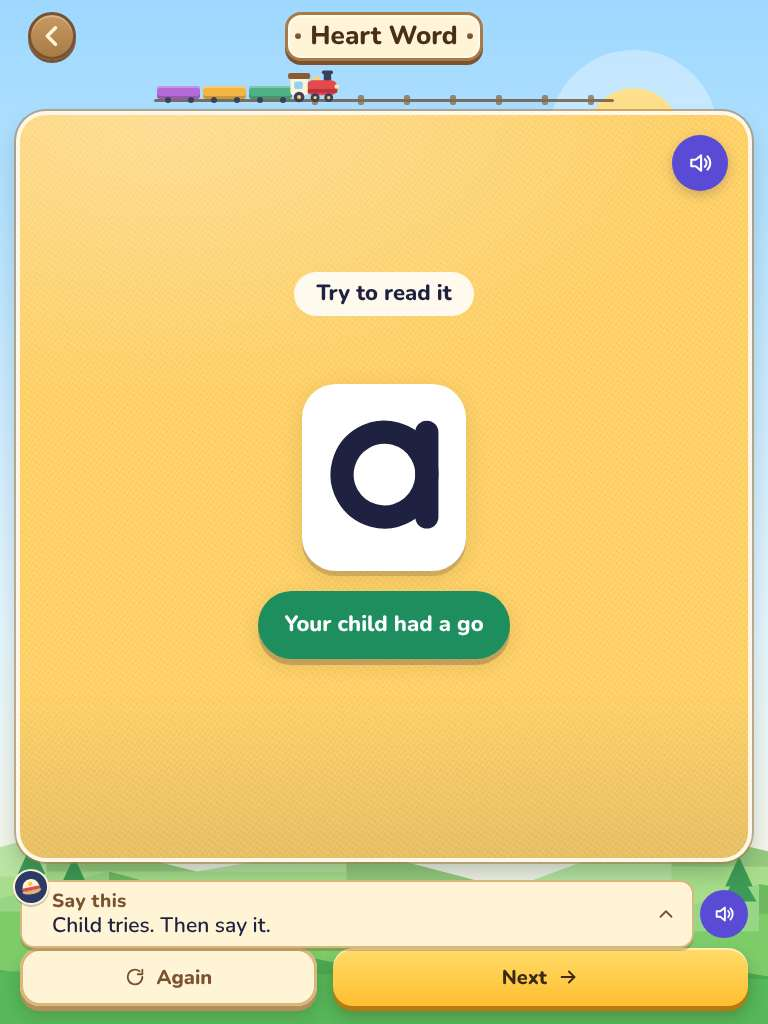
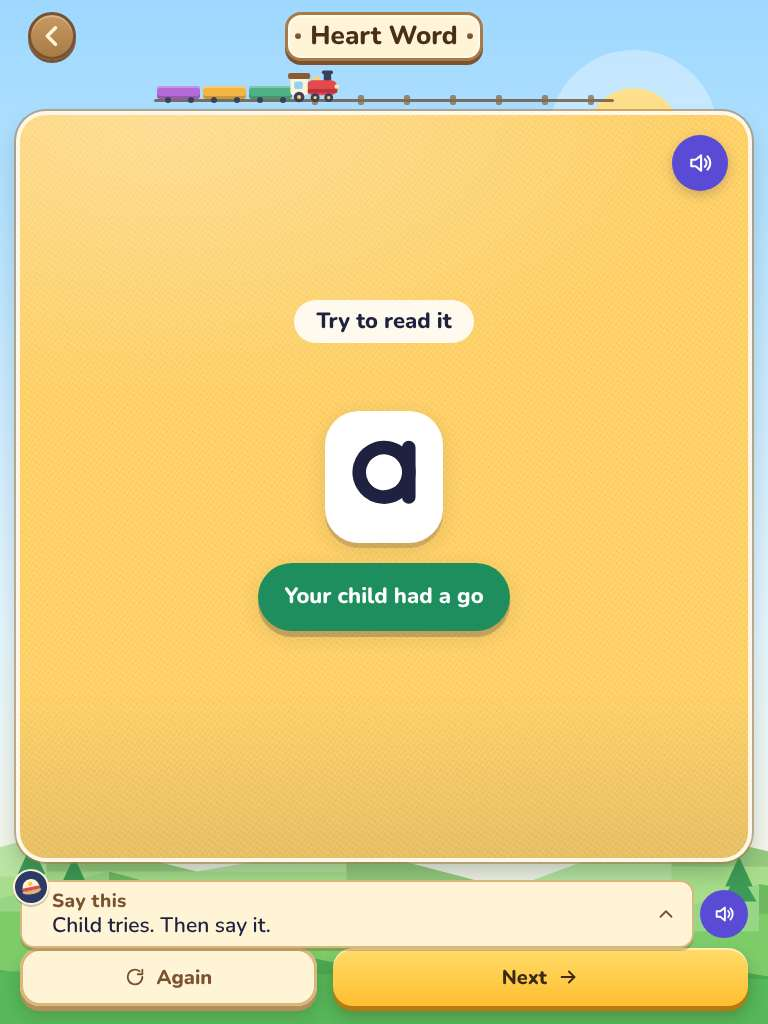
Tablet layouts: test/tablet.mjs, screenshots, fixes

Changed region(s): [[0.3125, 0.375, 0.6875, 0.6562], [0.375, 0.25, 0.625, 0.3438]]

diff --git a/css/app.css b/css/app.css
@@ -2658,7 +2658,7 @@ button.scene-tunnel.tappable:focus-visible { outline: 4px solid var(--violet); o
   .new-letter .blend-card .sc-rules { margin: 0; }
 }
 @media (min-width: 700px) and (min-height: 700px) {
-  .letter-card.pair .glyph { height: calc(100% - 20px); width: auto; max-width: 46%; }
+  .letter-card.pair .glyph { height: auto; width: 44%; max-width: 44%; }
   .new-letter:has(.blend-card) .letter-card.big { height: clamp(110px, 15dvh, 190px); }
 }
 @media (min-width: 700px) and (min-height: 700px) and (max-height: 1150px) {
@@ -2710,4 +2710,21 @@ button.scene-tunnel.tappable:focus-visible { outline: 4px solid var(--violet); o
 }
 @media (min-width: 700px) and (min-height: 700px) and (orientation: landscape) {
   .px-model { min-height: 44px; } .hw-col { gap: 8px; } .hw-word { padding-top: 30px; }
+}
+@media (min-width: 700px) and (min-height: 700px) and (orientation: landscape) {
+  .pic-frame.huge, .sounds-stage.revealed .pic-frame.huge { width: clamp(100px, 19dvh, 220px); height: clamp(100px, 19dvh, 220px); }
+  .sounds-stage { min-height: 0; padding: 20px 28px; gap: 12px; }
+  .sounds-body { gap: 16px; }
+  .reveal-word { font-size: clamp(40px, 6.5dvh, 56px); }
+}
+@media (min-width: 700px) and (min-height: 700px) {
+  .book-intro .btn, .ride-intro-btns .btn { min-height: 76px; font-size: 26px; padding: 0 44px; }
+}
+@media (min-width: 700px) and (min-height: 700px) {
+  .opts.n3 .opt-pic .pic-frame { width: clamp(130px, 17vw, 220px); height: clamp(130px, 17vw, 220px); }
+  .opts.n3 .opt-card, .opt-card { min-height: clamp(250px, 30dvh, 380px); }
+  .opts.n3 .opt-pic .word { font-size: 36px; } .opts.n3 .opt-card { padding: 14px; }
+}
+@media (min-width: 700px) and (min-height: 700px) and (orientation: landscape) {
+  .wagons-scene .say-hear { top: 124px; width: 64px; height: 64px; }
 }
